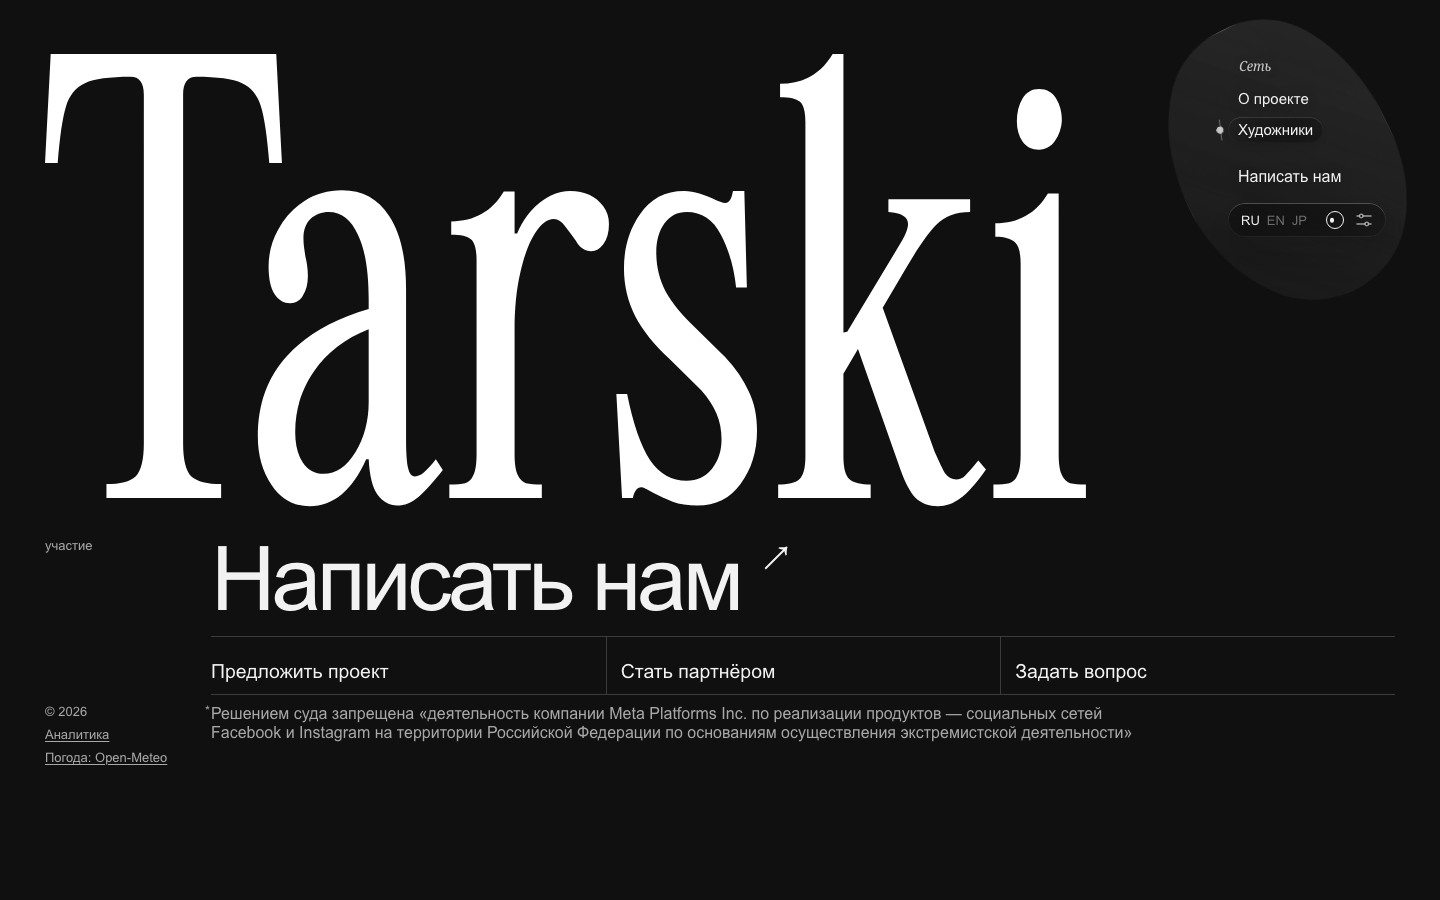
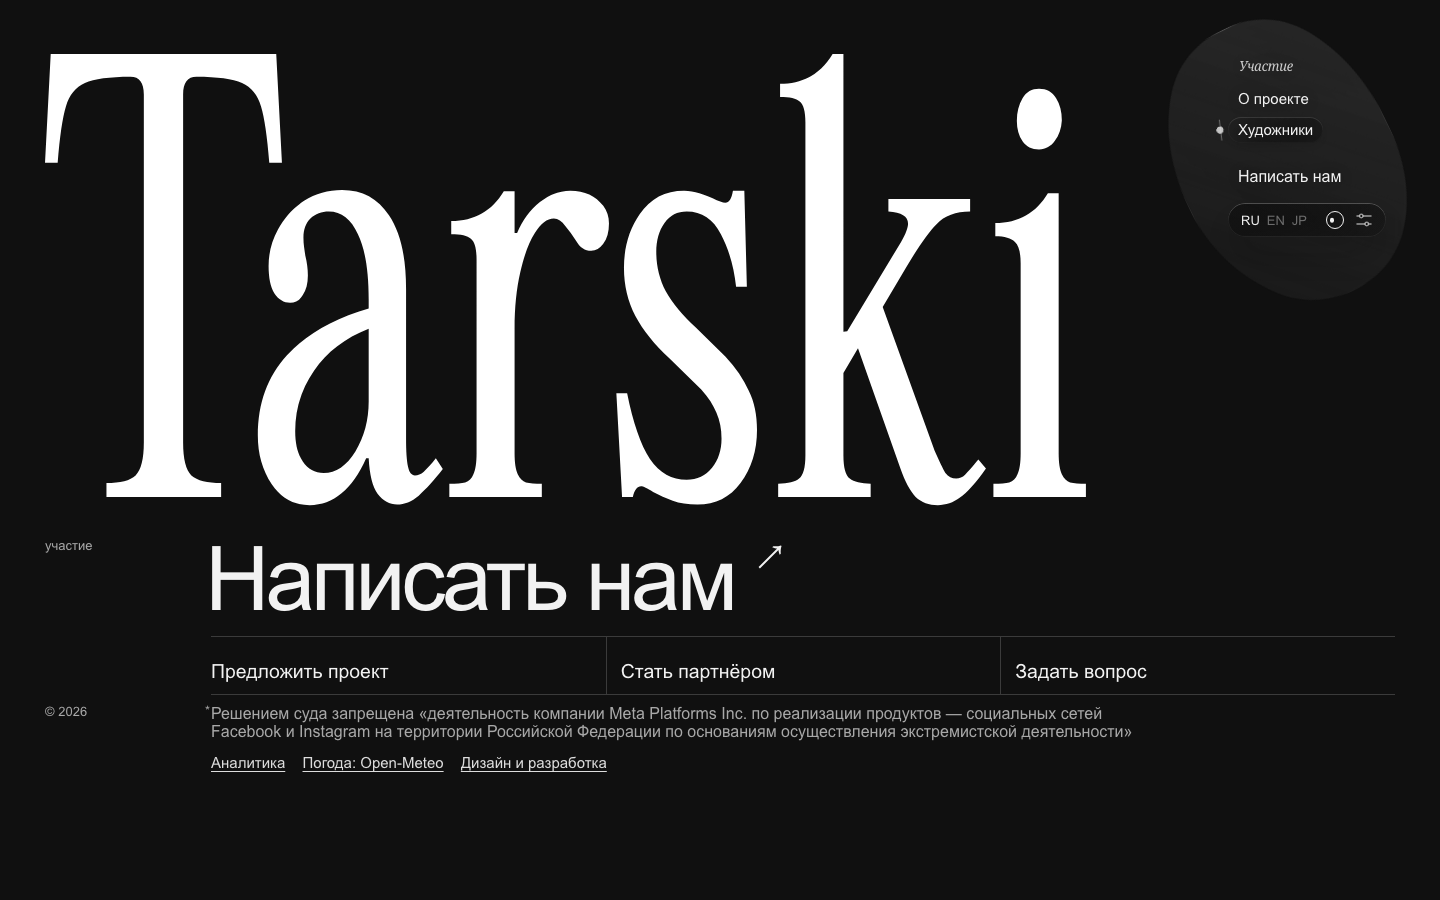
Align footer call to action (#13)
* Align footer call to action

* Update footer visual baselines

diff --git a/styles.css b/styles.css
@@ -2800,6 +2800,12 @@ html.has-open-dossier {
   transition: transform var(--duration-fast) var(--ease-smooth);
 }
 
+@media (min-width: 961px) {
+  .site-footer__cta > span {
+    margin-left: -6px;
+  }
+}
+
 .site-footer__cta-arrow {
   flex: 0 0 auto;
   width: 0.42em;

diff --git a/index.html b/index.html
@@ -63,7 +63,7 @@
     <meta name="twitter:image" content="https://tarski.ru/assets/og-image.png?v=20260704-footer-og" />
     <meta name="twitter:image:alt" content="Tarski — среда связей и вовлекающего искусства" />
     <link rel="icon" href="assets/favicon.svg?v=20260701-caps-favicon" type="image/svg+xml" sizes="any" />
-    <link rel="stylesheet" href="styles.css?v=20260717-footer-credits-emphasis-3" />
+    <link rel="stylesheet" href="styles.css?v=20260717-footer-cta-optical-4" />
     <link rel="stylesheet" href="settings.css?v=20260715-empathy-inline-controls-4" />
   </head>
   <body>